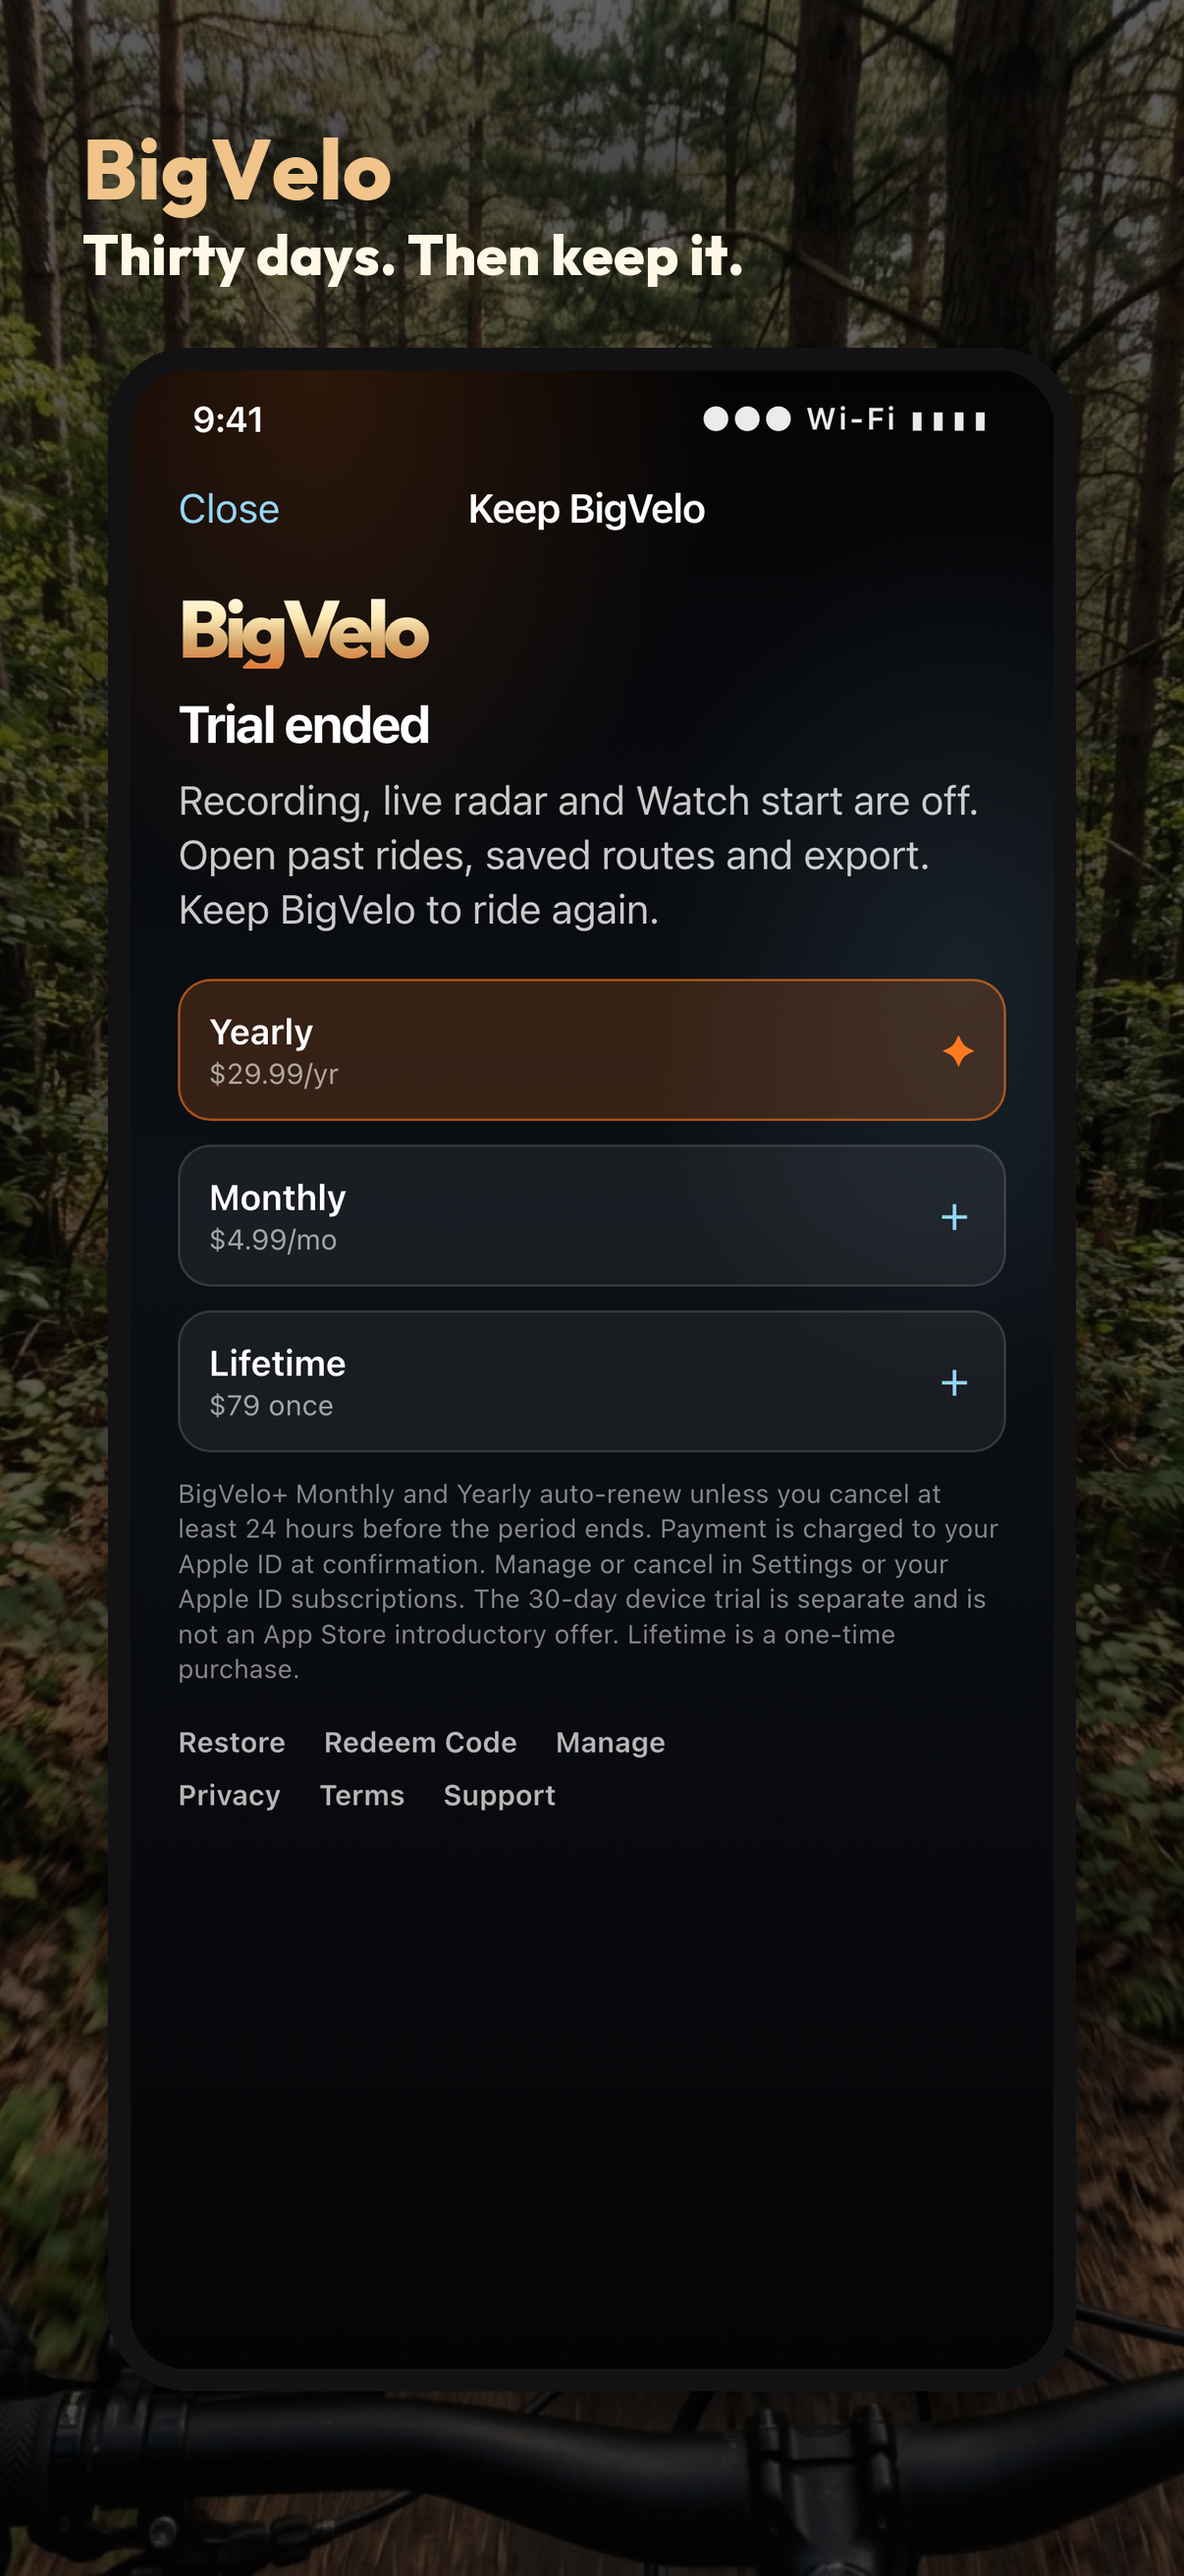
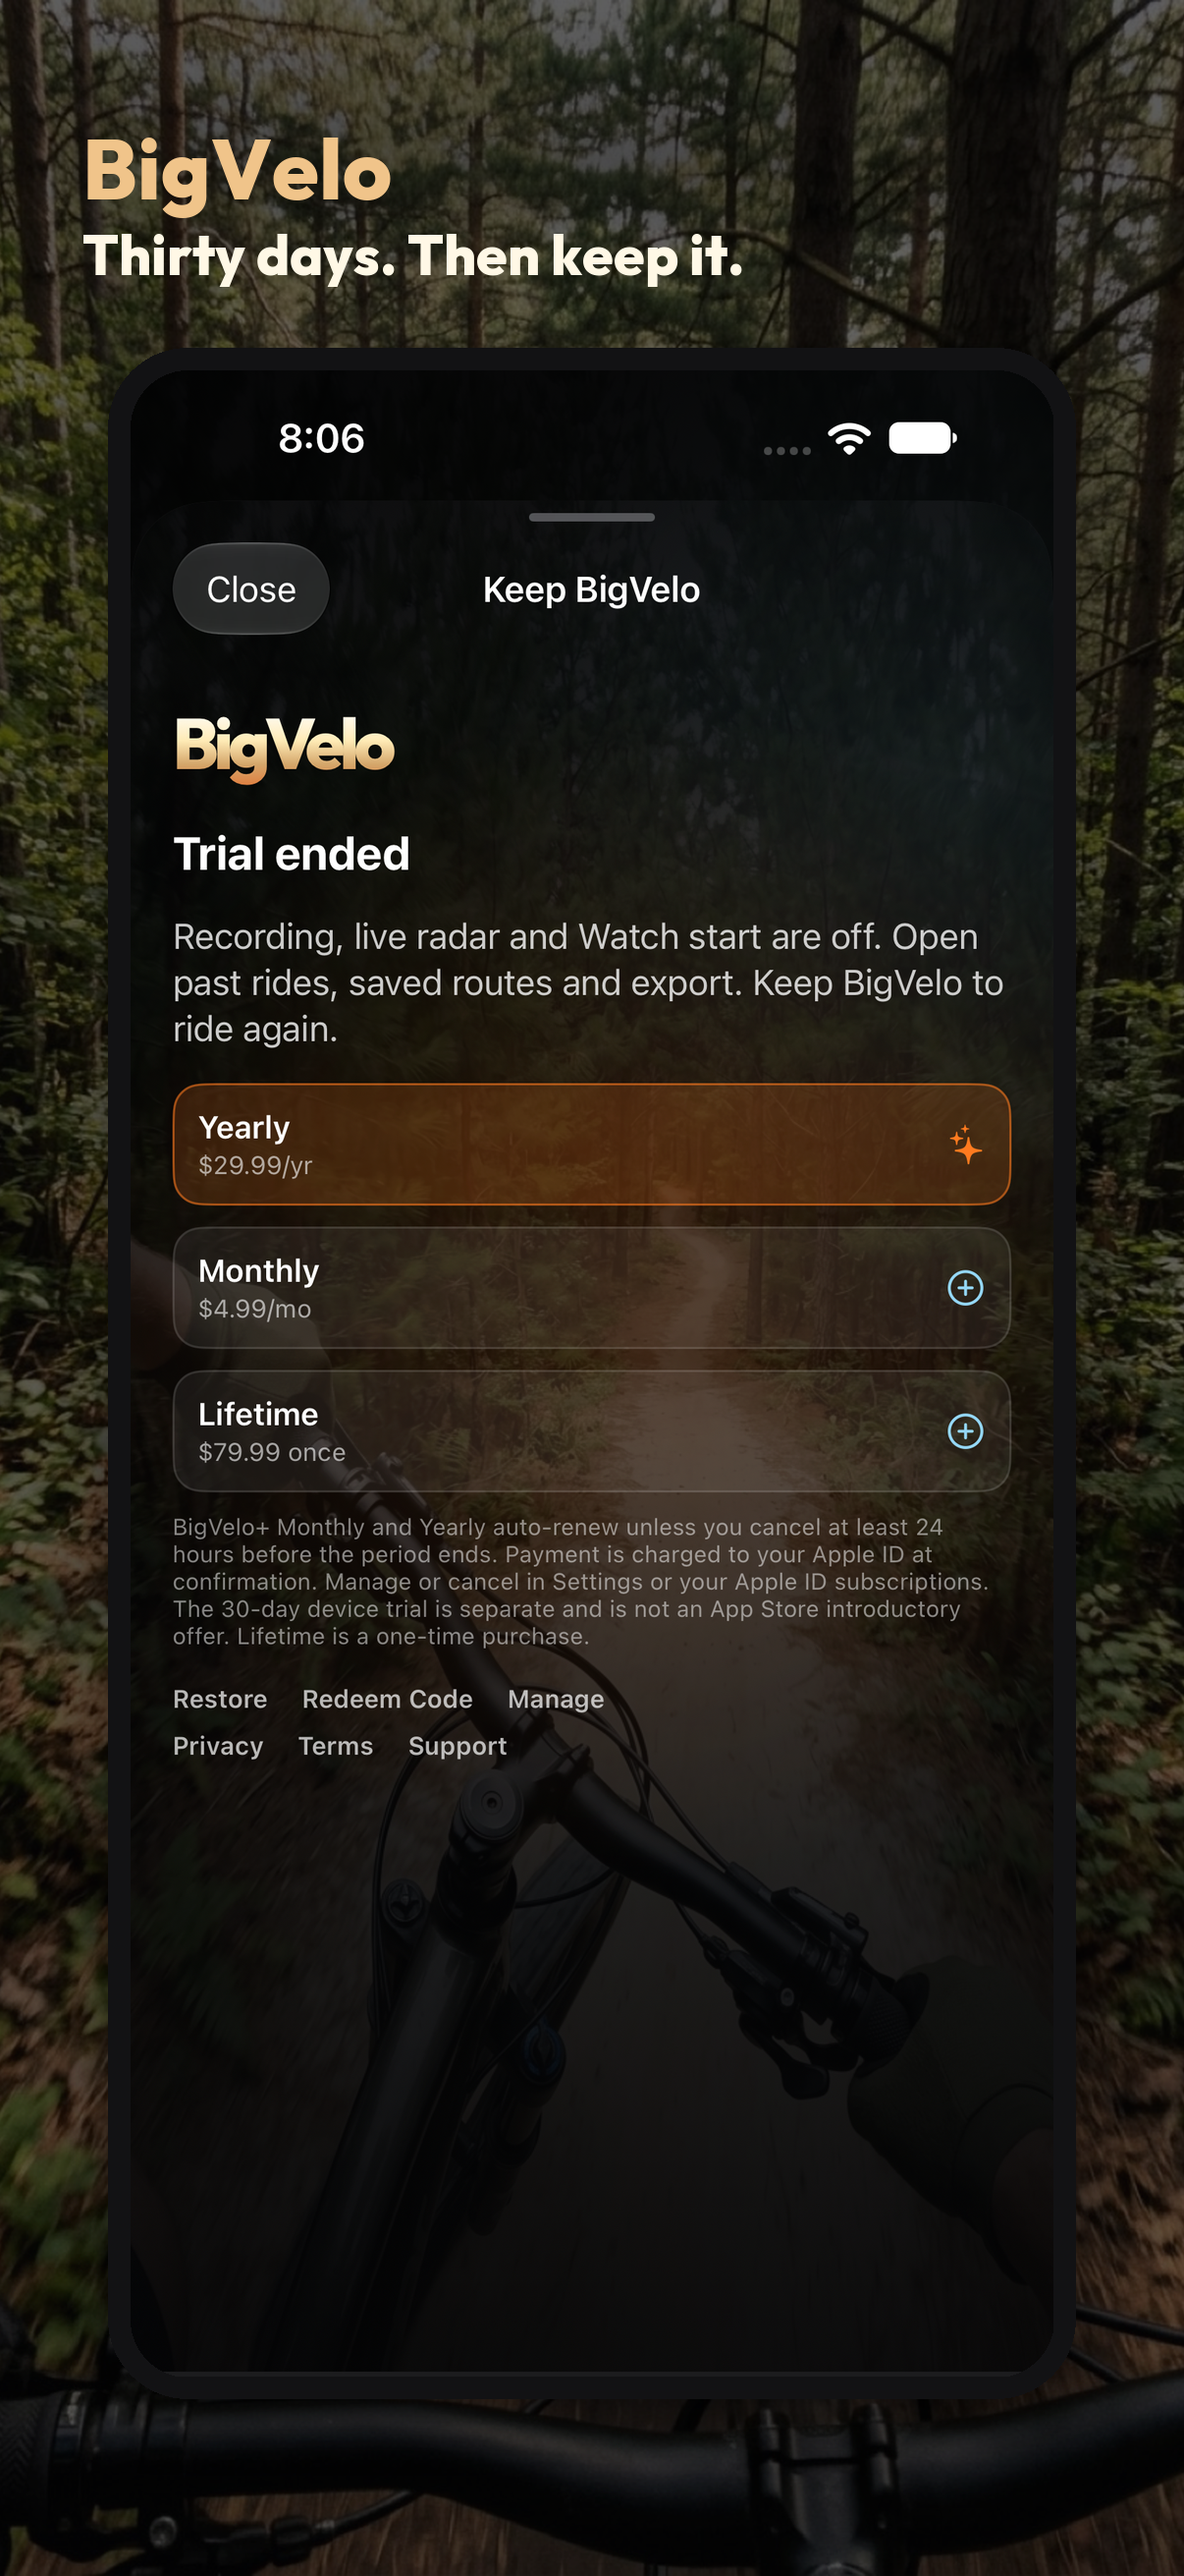
Version: 1.37
tl;dr
Weather from Apple is credited with the official mark, and the store shots Apple flagged now use a real iPhone status bar.

THOUGHT PROCESS:

- Review rejected 1.37 because the weather credit was typed words, not the  Weather trademark, and a store image used a drawn status bar
- The mark has to be visible wherever weather data is shown, and it has to open Apple's legal page
- The paywall image was an HTML mock. The opening store image is now a real phone capture

TECHNICAL DETAIL:

— AppleWeatherMark is Apple's combined mark, white on dark surfaces and black on light
— RideWeatherAttributionLabel shows that mark and links to the legal page WeatherKit returns
— The mark sits under the current conditions, under the live temperature when a reading is showing, and on the saved-ride conditions card
— RideWeatherClient caches that legal page so every surface shares one fetch
— The opening iPhone screenshot and the paywall shot for 6.9, 6.5, 6.3, and iPad were replaced

NEW FILES:

- BigV/Assets.xcassets/AppleWeatherMark.imageset/AppleWeatherMark-dark.png
- BigV/Assets.xcassets/AppleWeatherMark.imageset/AppleWeatherMark-light.png
- BigV/Assets.xcassets/AppleWeatherMark.imageset/Contents.json
- asc/paywall-device.png

Changed region(s): [[0.092, 0.1236, 0.859, 0.7414], [0.3988, 0.1854, 0.5829, 0.2471], [0.5829, 0.1545, 0.8284, 0.1854]]

diff --git a/BigV/Weather/Views/RideWeatherAttributionLabel.swift b/BigV/Weather/Views/RideWeatherAttributionLabel.swift
@@ -5,25 +5,65 @@
 
 import SwiftUI
 
-/// Apple Weather attribution.
+/// The Apple Weather trademark, linked to Apple's legal attribution page.
 ///
-/// Not decoration: the WeatherKit terms require the source to be named and the
-/// legal page to be reachable anywhere its data is shown. The link falls back to
-/// Apple's published page when the service has not yet handed one over, so the
-/// footer is never missing.
+/// WeatherKit requires the  Weather mark itself wherever its data is shown,
+/// plus a way to open the legal sources. The artwork is Apple's combined mark.
+/// The link prefers the URL WeatherKit handed back for this session, then the
+/// page Apple publishes for that mark.
 struct RideWeatherAttributionLabel: View {
 
+   enum Style: Sendable {
+      case regular
+      case compact
+
+      var height: CGFloat {
+         switch self {
+            case .regular: 20
+            case .compact: 14
+         }
+      }
+   }
+
+   var style: Style = .regular
+
+   /// Legal page from the weather response, when this surface already has one.
    var url: URL?
+
+   @State private var resolvedURL: URL?
 
    private static let legalPage = URL(string: "https://weatherkit.apple.com/legal-attribution.html")!
 
    var body: some View {
-      Link(destination: url ?? Self.legalPage) {
-         Text("Weather data · Apple Weather")
-            .font(.caption2)
-            .foregroundStyle(RideDashboardTheme.ink(0.4))
+      Link(destination: url ?? resolvedURL ?? Self.legalPage) {
+         Image("AppleWeatherMark")
+            .resizable()
+            .interpolation(.high)
+            .scaledToFit()
+            .frame(height: style.height)
+            .fixedSize(horizontal: true, vertical: true)
+            .accessibilityHidden(true)
       }
-      .accessibilityLabel("Weather data from Apple Weather")
-      .accessibilityHint("Opens Apple's weather data sources page")
+      .accessibilityLabel("Apple Weather")
+      .accessibilityHint("Opens Apple's weather data sources")
+      .task { await resolveLegalPage() }
    }
+
+   /// The bundled mark is already the trademark. This only keeps the link
+   /// pointed at the page WeatherKit is currently serving.
+   private func resolveLegalPage() async {
+      guard url == nil, resolvedURL == nil else { return }
+      resolvedURL = await RideWeatherClient.shared.legalPageURL()
+   }
+}
+
+#Preview {
+   ZStack {
+      RideAtmosphereBackground()
+      VStack(spacing: 24) {
+         RideWeatherAttributionLabel()
+         RideWeatherAttributionLabel(style: .compact)
+      }
+   }
+   .preferredColorScheme(.dark)
 }

diff --git a/BigV/Weather/Views/RideWeatherChip.swift b/BigV/Weather/Views/RideWeatherChip.swift
@@ -19,21 +19,27 @@ struct RideWeatherChip: View {
    @State private var isShowingForecast = false
 
    var body: some View {
-      Button {
-         isShowingForecast = true
-      } label: {
-         if let snapshot = rideWeatherModel.displayedSnapshot {
-            reading(snapshot)
-         } else {
-            placeholder
+      VStack(spacing: 3) {
+         Button {
+            isShowingForecast = true
+         } label: {
+            if let snapshot = rideWeatherModel.displayedSnapshot {
+               reading(snapshot)
+            } else {
+               placeholder
+            }
+         }
+         .buttonStyle(.plain)
+         .accessibilityElement(children: .ignore)
+         .accessibilityLabel("Weather")
+         .accessibilityValue(accessibilityValue)
+         .accessibilityHint("Opens the forecast")
+         .accessibilityIdentifier("ride.chip.weather")
+
+         if rideWeatherModel.displayedSnapshot != nil {
+            RideWeatherAttributionLabel(style: .compact, url: rideWeatherModel.attributionURL)
          }
       }
-      .buttonStyle(.plain)
-      .accessibilityElement(children: .ignore)
-      .accessibilityLabel("Weather")
-      .accessibilityValue(accessibilityValue)
-      .accessibilityHint("Opens the forecast")
-      .accessibilityIdentifier("ride.chip.weather")
       .task { await rideWeatherModel.runRefreshLoop() }
       .onChange(of: scenePhase) { _, phase in
          guard phase == .active else { return }

diff --git a/BigV/Weather/Views/RideWeatherDetailSheet.swift b/BigV/Weather/Views/RideWeatherDetailSheet.swift
@@ -60,6 +60,9 @@ struct RideWeatherDetailSheet: View {
                isShowingLocationSearch = true
             }
 
+            RideWeatherAttributionLabel(url: weatherDetailModel.attributionURL)
+               .frame(maxWidth: .infinity, alignment: .leading)
+
             RideWeatherForecastCard(
                hours: weatherDetailModel.precipOutlook.hours,
                daily: weatherDetailModel.daily,
@@ -75,11 +78,6 @@ struct RideWeatherDetailSheet: View {
             }
 
             RideWeatherSunCard(today: weatherDetailModel.today, timeZone: weatherDetailModel.timeZone)
-
-            RideWeatherAttributionLabel(url: weatherDetailModel.attributionURL)
-               .frame(maxWidth: .infinity, alignment: .center)
-               .padding(.top, 4)
-               .padding(.bottom, 12)
          }
          .padding(.horizontal, 16)
          .padding(.vertical, 12)

diff --git a/BigV/Weather/Services/RideWeatherService.swift b/BigV/Weather/Services/RideWeatherService.swift
@@ -51,6 +51,13 @@ actor RideWeatherClient {
 
    func currentAttributionURL() -> URL? { attributionLegalURL }
 
+   /// The legal page WeatherKit requires next to the  Weather mark.
+   /// Cached after the first successful read so every surface shares one fetch.
+   func legalPageURL() async -> URL? {
+      await refreshAttribution()
+      return attributionLegalURL
+   }
+
    // MARK: - Current
 
    func currentWeather(for location: CLLocation) async -> RideWeatherSnapshot? {

diff --git a/BigV/Views/RideDetail/RideWeatherConditionsCard.swift b/BigV/Views/RideDetail/RideWeatherConditionsCard.swift
@@ -58,6 +58,9 @@ struct RideWeatherConditionsCard: View {
          .accessibilityElement(children: .combine)
          .accessibilityLabel("Weather")
          .accessibilityValue("\(report.conditionLabel), \(report.temperatureText)")
+
+         RideWeatherAttributionLabel()
+            .frame(maxWidth: .infinity, alignment: .leading)
       }
       .padding(14)
       .rideGlassCard(density: .standard)
